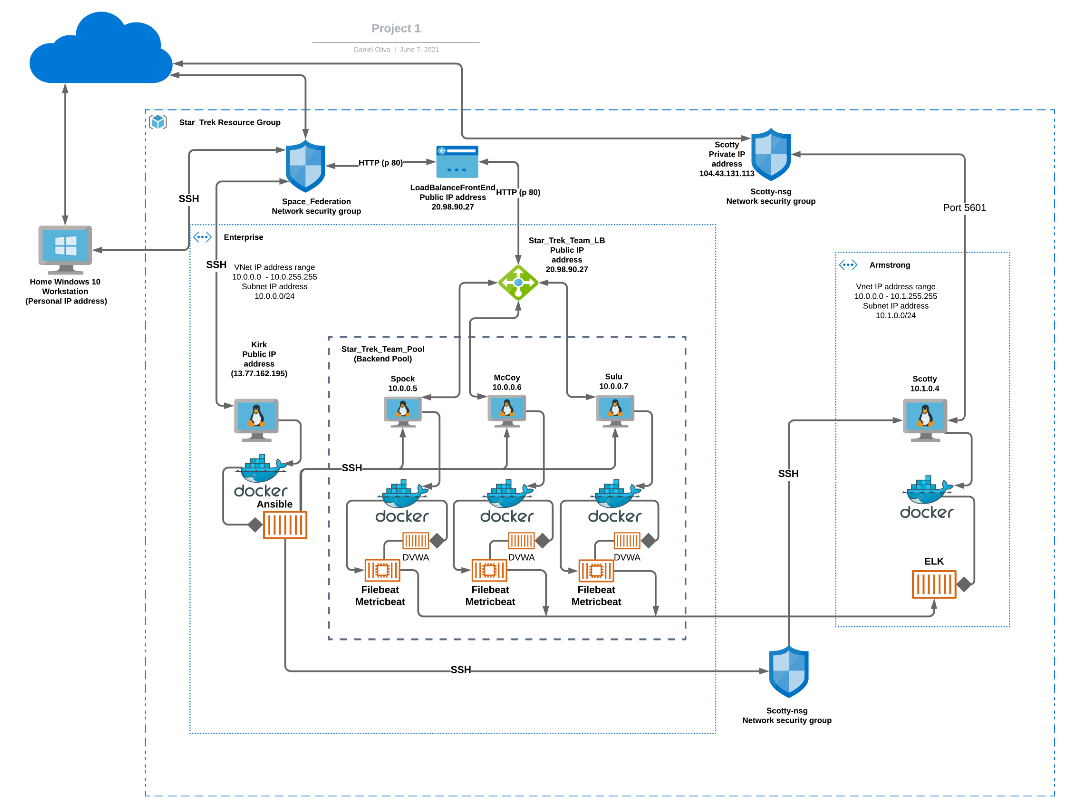
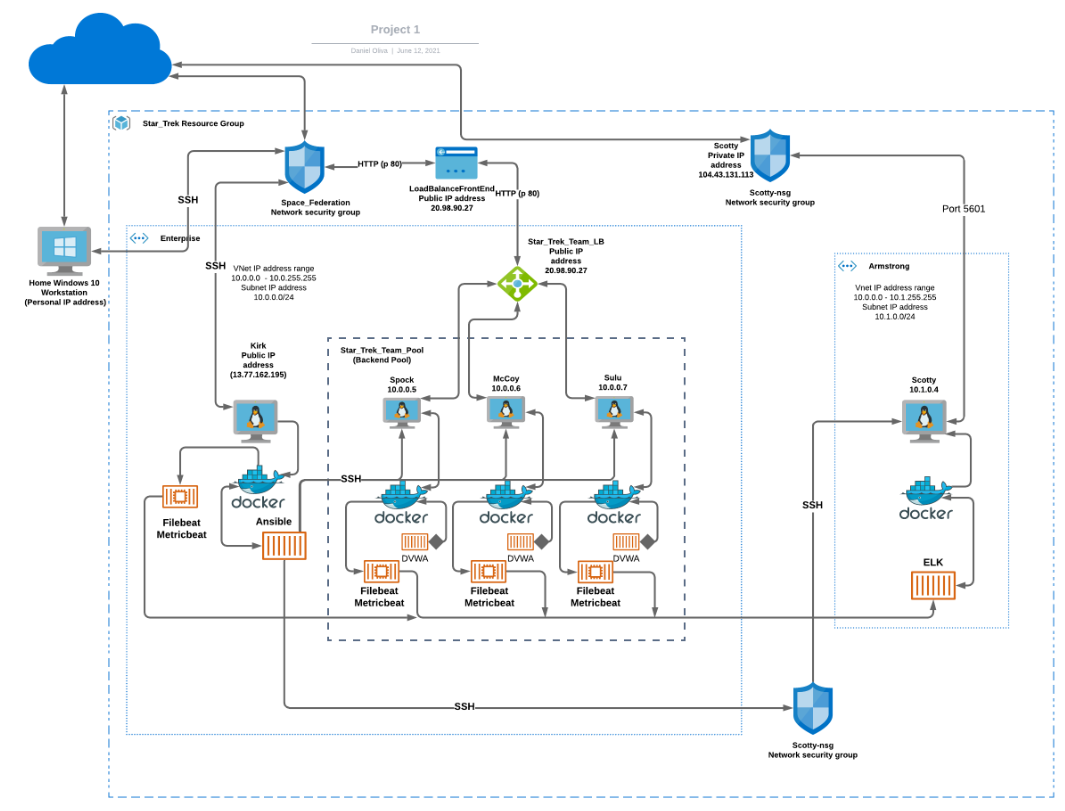
Forth Commit

diff --git a/README.md b/README.md
@@ -55,7 +55,7 @@ A summary of the access policies in place can be found in the table below.
 
 | Name   | Publicly Accessible | Allowed IP Addresses |
 |--------|---------------------|----------------------|
-| Kirk   | yes                 | Home Personal IP     |
+| Kirk   | yes                 | Personal IP          |
 | Spock  | No                  | 10.0.0.0-254         |
 | McCoy  | No                  | 10.0.0.0-254         |
 | Sulu   | No                  | 10.0.0.0-254         |
@@ -81,14 +81,19 @@ The following screenshots displays the result of running `docker ps` and `system
 
 ### Target Machines & Beats
 
+I installed the following Beats on these machines:
+- Filebeat
+- Metricbeat
+
 This ELK server is configured to monitor the following machines:
+- 10.0.0.4
 - 10.0.0.5
 - 10.0.0.6
 - 10.0.0.7
 
-I installed the following Beats on these machines:
-- Filebeat
-- Metricbeat
+The `ansible.cfg` file must be edited to allow a second remote_user to access jumpbox remotely.
+
+[ansible.cfg](Images/ansible.cfg_Project_1.png)
 
 These Beats allow collection to the following information from each machine:
 
@@ -101,8 +106,8 @@ In order to use the playbook, you will need to have an Ansible control node alre
 
 SSH into the control node and follow the steps below:
 - Copy the `filebeat and metricbeat configuration` files to  `/etc/ansible/filebeat.config.yml and /etc/ansible/metricbeat.config.yml`.
-- Update the hosts file to include IP address for [webserver] private IP address. 
-- Run the playbook, and navigate to /etc/filebeat/filebeat.yml and /etc/metricbeat/metricbeat.yml on hosts to check the installation worked as expected.
+- Update the hosts file to include the private IP addresses for [webserver] and [jumpbox].
+- Run the playbook, navigate to /etc/filebeat/filebeat.yml and /etc/metricbeat/metricbeat.yml on hosts and jumpbox to check the installation worked as expected.
 - Ansible commands to be familiar with `ansible [Hosts_Name] -m ping` and`ansible-playbook`.
 - The **install-elk.yml**, **install-filebeat.yml**, and **install-metricbeat.yml** are in my ansible playbooks. They are located in the `/etc/ansible` directory.
 - The hosts file needs to be updated if you intent run the playbook on a specific machine. In the hosts file you can indicate the [Hosts_Name] and below you list specific Hosts private IP addresses.
